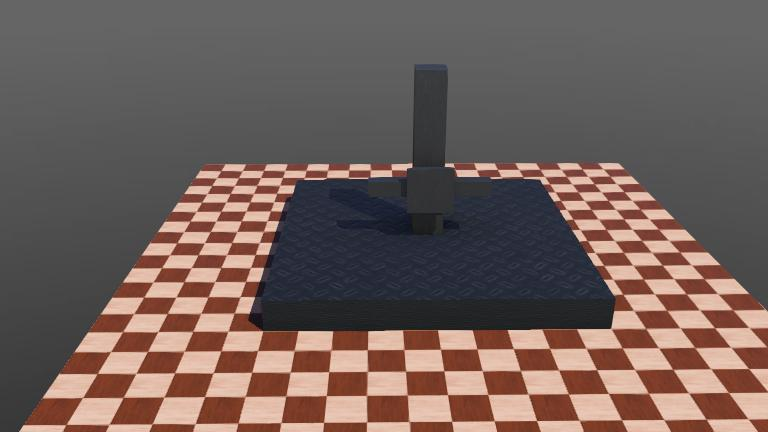
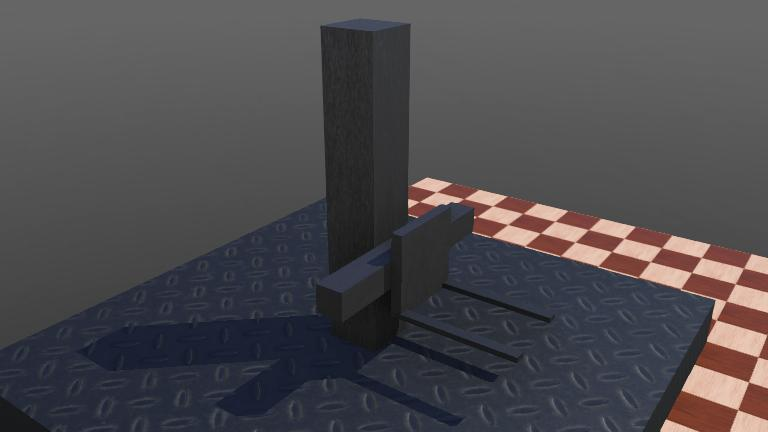
21.08.2023 güncelleme

diff --git a/controllers/KOL_KONTROLCU_V2/KOL_KONTROLCU_V2.cpp b/controllers/KOL_KONTROLCU_V2/KOL_KONTROLCU_V2.cpp
@@ -31,22 +31,24 @@ int main(int argc, char **argv)
   /* Kütüphane yardımı ile robotun tanımlanması ve kod bloğu içerisinde robotun tanımlanacağı fonksiyonlar için isim ataması */
   Robot *robot = new Robot();
   /* Kütüphane ile motorların tanımlanması ve kod bloğu içerisinde motorların tanımlanacağı fonksiyonlar için isim ataması */
-  Motor *motor[2];
+  Motor *motor[4];
   /* kütüphane ile klavyenin tanımlanması ve kod bloğu içerisinde klavyenin tanımlanacağı fonksiyonlar için isim ataması */
   Keyboard kb;
   /* klavye girdilerinin kontrol edilmesi */
   /* BU BÖLGEDEKİ KODUN YORUM SATIRLARI KAPATILACAK OLURSA KLAVYE GİRDİLERİ KONSOLDAKİ ÇIKTIYA GÖRE DÜZENLENEBİLİR */
   //  char w = 'W'; //87
   //  char s = 'S'; //83
-  //  char d = 'D'; //65
-  //  char a = 'A'; //68
-  // cout << int(w) << endl;
-  // cout << int(s) << endl;
+char q = 'Q'; //65
+char e = 'E'; //68
+ cout << int(q) << endl;
+ cout << int(e) << endl;
   // cout << int(d) << endl;
   // cout << int(a) << endl;
 /* Motorların kütüphane aracılığı ile tanıtılması*/
   motor[0] = robot->getMotor("DIKEY_MOTOR");
   motor[1] = robot->getMotor("YATAY_MOTOR");
+  motor[2] = robot->getMotor("TUTAMAC_SAG");
+  motor[3] = robot->getMotor("TUTAMAC_SOL");
   /* simülasyon zamanının entegre edilmesi*/
   int timeStep = (int)robot->getBasicTimeStep();
   /*klavyenin örnekleme periyodu tanımının yapılması */
@@ -54,10 +56,10 @@ int main(int argc, char **argv)
   /* hız değişkenlerinin ayarlanması (simülasyonda rad/s cinsinden ifade ediliyor)*/
   double solSagHiz = 0.0;
   double yukariAsagiHiz = 0.0;
+  double ileriGeriHiz = 0.0;
 /* kodun tekrarlı çalışmasını sağlayan while kodu*/
   while (robot->step(timeStep) != -1)
   {
-    
 /*klavye girdisi alınması*/
     int key = kb.getKey();
     /*klavye girdilerinin kıyaslanarak hız verilerinin güncellenmesi */
@@ -74,23 +76,37 @@ int main(int argc, char **argv)
     else if (key == 65)
     {
       yukariAsagiHiz = 0.0;
-      solSagHiz = 1.0;
+      solSagHiz = 5.0;
     }
     else if (key == 68)
     {
       yukariAsagiHiz = 0.0;
-      solSagHiz = -1.0;
+      solSagHiz = -5.0;
+    }
+    else if(key == 81)
+    {
+    ileriGeriHiz = -0.1;
+    }
+    else if(key == 69)
+    {
+    ileriGeriHiz = 0.1;
     }
     else
     {
       yukariAsagiHiz = 0.0;
       solSagHiz = 0.0;
+      ileriGeriHiz = 0.0;
     }
     /*motorların konum ve ivme verilerinin güncelenmesi*/
     motor[0]->setPosition(INFINITY);
     motor[1]->setPosition(INFINITY);
+    motor[2]->setPosition(INFINITY);
+    motor[3]->setPosition(INFINITY);
     motor[0]->setVelocity(yukariAsagiHiz);
     motor[1]->setVelocity(solSagHiz);
+    motor[2]->setVelocity(ileriGeriHiz);
+    motor[3]->setVelocity(ileriGeriHiz);
+
 
 
   }
